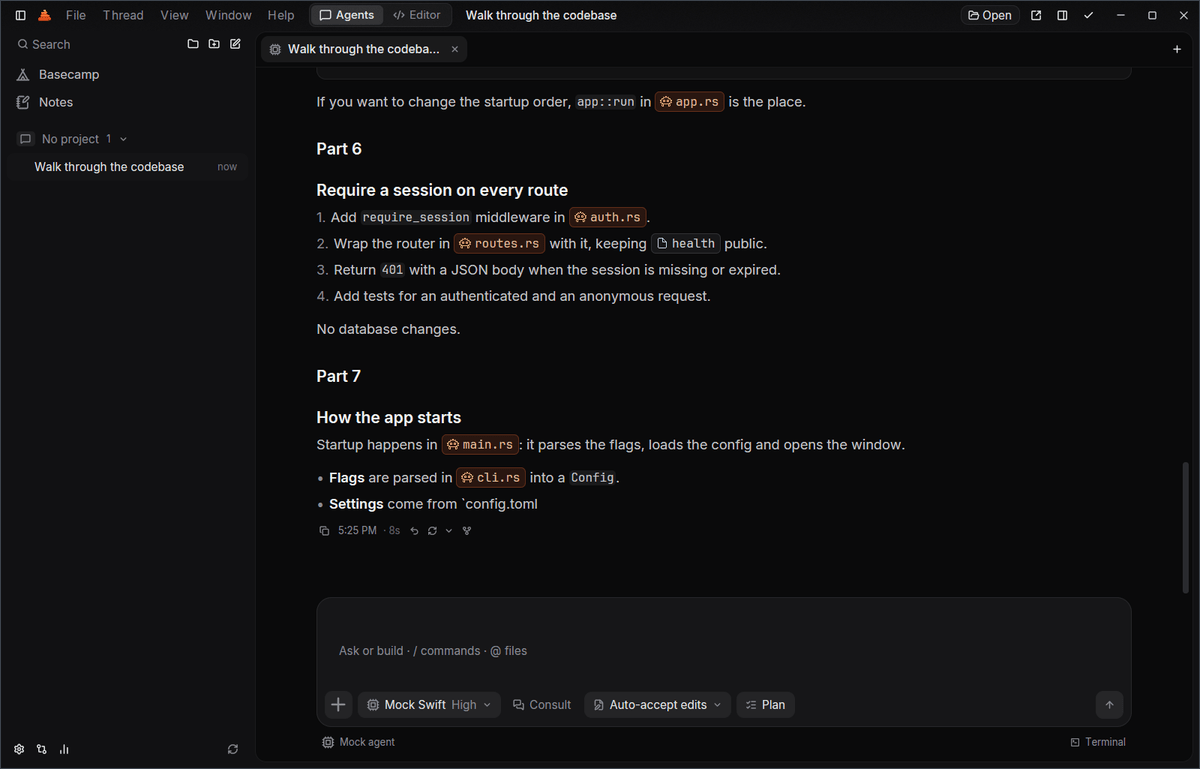
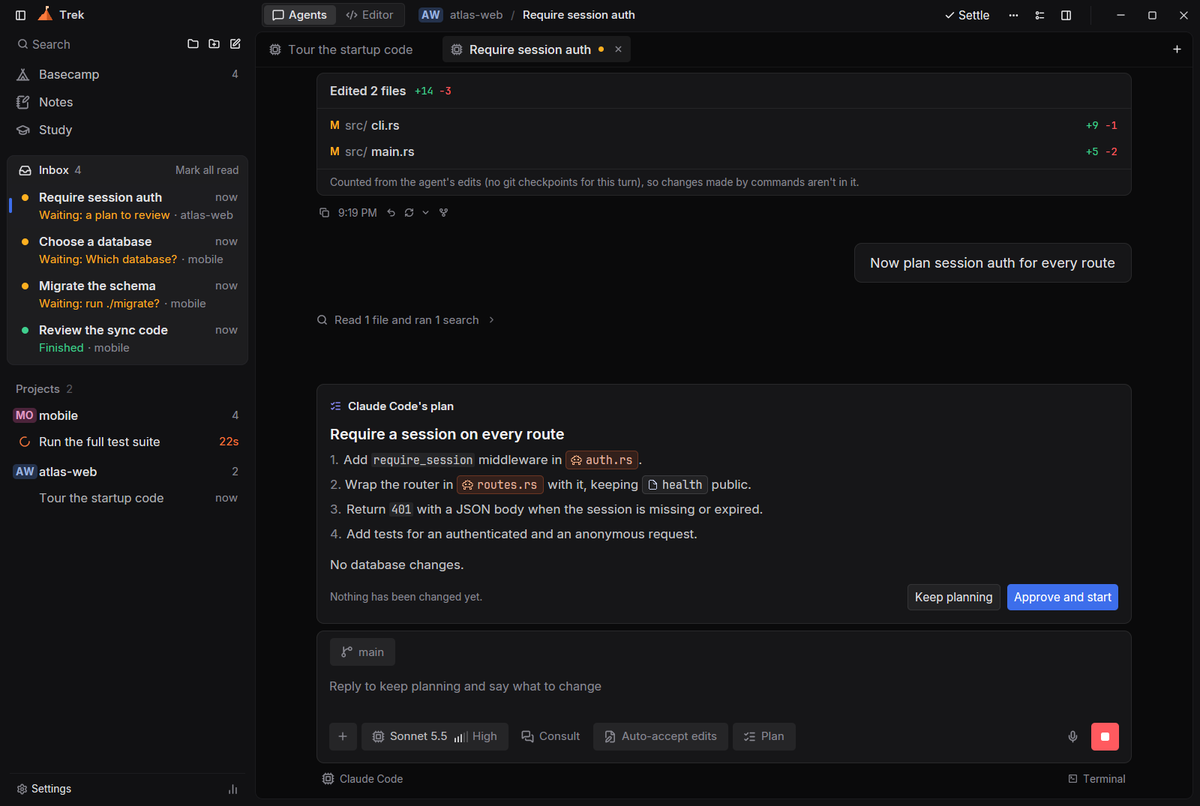
The README's Windows pictures show today's app in both themes, with no "Mock" in them (#22)
The Windows cell showed an old build (its menu bar, "Mock Swift" in the
composer, a mock answer cut off mid-sentence), in Night only. It now has a
Night and a Paper frame of 0.4.51, like the Mac cell, from a suite of its
own, media/windows/readme.cmds: the website's scene (two demo projects, an
Inbox with a plan, a question, an approval and a finished thread, one at
work), with the scripted agent in its demo dress (Claude Code, Sonnet 5.5),
the names only. The README captions the thread as an example, as the dress
asks.

Running it found the capture drivers behind the app: neither capture.ps1 nor
capture.sh knew `dress` or `title` (added to the shots build for the website,
which drives them through the verify driver), so a suite using them was
refused. And `capture.ps1 check windows/<name>` linted media/mac/<name>.cmds
when both existed, so it passed the suite the run then refused. Both lists
have the two commands, `check windows/<name>` lints that file, and both CIs
now lint every manifest with their own driver.

diff --git a/README.md b/README.md
@@ -50,9 +50,12 @@ Claude Code, Codex, OpenCode, Cursor, Copilot, API and local models. On macOS an
     <td width="50%" valign="top">
       <img src="docs/assets/icons/platforms/windows.svg" width="24" height="24" align="top" alt="">&nbsp; <b>Windows</b> &nbsp;<sub>11 · x64</sub>
       <br><br>
-      <img src="docs/assets/screenshots/windows/thread-night.png" alt="Trek on Windows: a finished answer in the Night theme">
+      <picture>
+        <source media="(prefers-color-scheme: dark)" srcset="docs/assets/screenshots/windows/thread-night.png">
+        <img src="docs/assets/screenshots/windows/thread-paper.png" alt="Trek on Windows, an example thread: the files an agent edited and its plan waiting for approval, with the threads that need you in the sidebar">
+      </picture>
       <br>
-      <sub>Tray icon, taskbar badge, toasts.</sub>
+      <sub>Tray icon, taskbar badge, toasts. The thread pictured is an example.</sub>
     </td>
   </tr>
 </table>

diff --git a/docs/README.md b/docs/README.md
@@ -40,7 +40,8 @@ README images live in [`assets/`](assets):
 - `screenshots/mac/`: from `SIZE=1280x800 script/capture.sh mac/readme` (an isolated build with
   only the mock agent), resized to 2048 or 1200 px wide.
 - `screenshots/iphone/`: the demo mode, shot with `ios/scripts/shoot.sh` and framed.
-- `screenshots/windows/`: frames from a Windows build of the same suite.
+- `screenshots/windows/`: from `pwsh script/capture.ps1 windows/readme` (SIZE=1280x860, two demo
+  projects, the scripted agent in its demo dress), resized to 1200 px wide; captioned as an example.
 - `icons/features/`: [Lucide](https://lucide.dev) icons (ISC, see the `LICENSE` there) in Trek's ember.
 - `icons/tech/`, `icons/platforms/`: tiles drawn around [Simple Icons](https://simpleicons.org) glyphs (CC0).
 - `buttons/`, `trek-icon.png`: rendered from `assets/brand/` with Trek's own Inter.

diff --git a/media/README.md b/media/README.md
@@ -37,6 +37,10 @@ Literally the `shots.rs` command file (`crates/trek-app/src/shots.rs` documents 
 ## windows/`*.cmds`
 
 Windows-only suites (`pwsh script/capture.ps1 windows/hittest`; `capture.sh` doesn't know them).
+`readme.cmds` makes the README's Windows frames: the website's scene (`script/site/masters.sh`) with
+the scripted agent in its demo dress (`dress Claude Code|Sonnet 5.5|Opus 5.5`, the names only), so
+nothing in them says "Mock"; the README captions them as an example. Its header says how to make
+the two demo projects it opens.
 `hittest.cmds` asks the real window what Windows' `WM_NCHITTEST` gets as an answer where the
 title bar's controls, its empty strip and its caption buttons are, and sends the window the
 move, press and release of a real click (to its own handle, never the desktop), so a control
